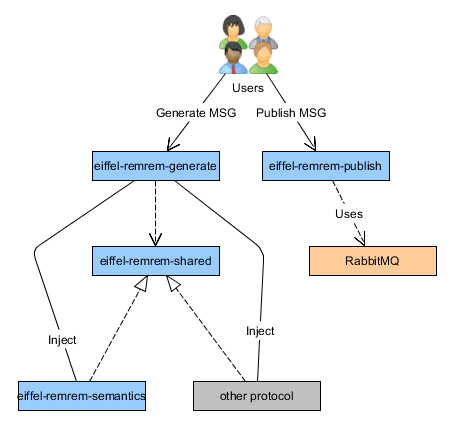
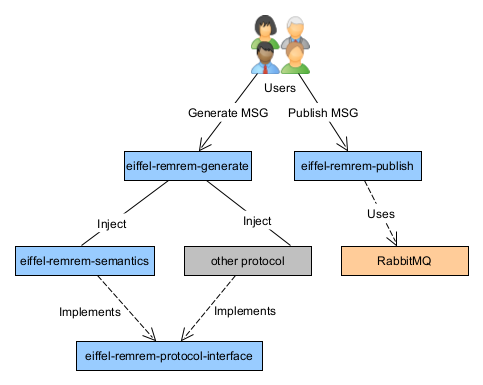
Improve REMReM introduction description (#11)

diff --git a/overview.md b/overview.md
@@ -1,26 +1,16 @@
-<!---
-   Copyright 2018 Ericsson AB.
-   For a full list of individual contributors, please see the commit history.
+# REMReM
+REMReM ( **RE**ST **M**ailbox for **Re**gistered **M**essages ) contains a set of tools to generate validated Eiffel messages and publish them on a RabbitMQ message bus. They can operate as micro services or as stand-alone CLI versions.
 
-   Licensed under the Apache License, Version 2.0 (the "License");
-   you may not use this file except in compliance with the License.
-   You may obtain a copy of the License at
+REMReM consists of two main functions:
+- REMReM Generate: for generating valid Eiffel messages and validating them against the [protocol schemas](https://github.com/eiffel-community/eiffel/tree/master/schemas).
+- REMReM Publish: for publishing Eiffel messages on an RabbitMQ with authentication. When using REMReM as a service it provides an endpoint to both generate the messages and publishing them. For information on how to use the publish service please see the [REMReM publish usage](https://github.com/eiffel-community/eiffel-remrem-publish/blob/master/wiki/markdown/usage/service.md#usage).
 
-       http://www.apache.org/licenses/LICENSE-2.0
-
-   Unless required by applicable law or agreed to in writing, software
-   distributed under the License is distributed on an "AS IS" BASIS,
-   WITHOUT WARRANTIES OR CONDITIONS OF ANY KIND, either express or implied.
-   See the License for the specific language governing permissions and
-   limitations under the License.
---->
-
-# RemRem Architecture
+## REMReM Architecture
 ![RemRem Architecture](https://github.com/eiffel-community/eiffel-remrem/raw/master/media/remrem_architecture.png "RemRem Architecture")
 
-Architecture of remrem is based on Microservice and API design principles utilizing state of the art in development.
+The architecture of REMReM is based on Microservice and API design principles utilizing state of the art in development.
 
-## Principles
+### Principles
 - Microservices driven
  - Independent deployment
  - Decoupled services
@@ -29,11 +19,10 @@ Architecture of remrem is based on Microservice and API design principles utiliz
  - Isolates failures
  - Decentralized
 
-# RemRem Components
+## RemRem Components
 - Generate (Microservice): Can be used to generate validated Eiffel messages. [Generate Github Repo](https://github.com/eiffel-community/eiffel-remrem-generate)
 - Publish (Microservice): Can be used to publish Eiffel messages. [Publish Github Repo](https://github.com/eiffel-community/eiffel-remrem-publish)
 - Semantics (Library): Injectable library used with Generate Microservice to enable generation of new Eiffel messages. [Semantics Github Repo](https://github.com/eiffel-community/eiffel-remrem-semantics)
-- Shared (Library): Interface information used in injecting message libraries. Utilized by Semantics and Eifel3Messaging innersource projects [Shared Github Repo](https://github.com/eiffel-community/eiffel-remrem-shared)
 
-# Building and releasing
-For every RemRem component it is needed to create a new release tag in the component's repository on github. Once the tag is created the build for the new release tag will be started when you visit the component's page on jitpack.io (i.e. https://jitpack.io/#eiffel-community/eiffel-remrem-generate) and published on component's page on jitpack.io or when another application is build and it is dependent of the new release tag from jitpack.io.
+## Building and releasing
+For every REMReM component it is needed to create a new release tag in the component's repository on GitHub. Once the tag is created the build for the new release tag will be started when you visit the component's page on jitpack.io (i.e. https://jitpack.io/#eiffel-community/eiffel-remrem-generate) and published on component's page on jitpack.io or when another application is build and it is dependent of the new release tag from jitpack.io.

diff --git a/README.md b/README.md
@@ -1,32 +1,16 @@
-<!---
-   Copyright 2018 Ericsson AB.
-   For a full list of individual contributors, please see the commit history.
-
-   Licensed under the Apache License, Version 2.0 (the "License");
-   you may not use this file except in compliance with the License.
-   You may obtain a copy of the License at
-
-       http://www.apache.org/licenses/LICENSE-2.0
-
-   Unless required by applicable law or agreed to in writing, software
-   distributed under the License is distributed on an "AS IS" BASIS,
-   WITHOUT WARRANTIES OR CONDITIONS OF ANY KIND, either express or implied.
-   See the License for the specific language governing permissions and
-   limitations under the License.
---->
-
-<img src="./images/logo.png" alt="Eiffel RemRem" width="350"/>
+<img src="./images/logo.png" alt="Eiffel REMReM" width="350"/>
 
 [![Sandbox badge](https://img.shields.io/badge/Stage-Sandbox-yellow)](https://github.com/eiffel-community/community/blob/master/PROJECT_LIFECYCLE.md#stage-sandbox)
 
-# Eiffel RemRem
+# Eiffel REMReM
 
-Eiffel RemRem is a project undertaken to establish a communication layer between messagebus technologies and rest of Eiffel project in order to accomplish:
+Eiffel REMReM ( **RE**ST **M**ailbox for **Re**gistered **M**essages ) is a project undertaken to establish a communication layer between messagebus technologies and rest of Eiffel project in order to accomplish:
 - Technology agnosticism
 - Separation of concerns
 - Ability to secure message bus entry/exit points
 - Ability to introduce message validation
-See [this overview](overview.md) for further information on architecture, principles, links to related components and instructions for building and releasing.
+
+See **[this overview](overview.md)** for further information on architecture, principles, links to related components and instructions for building and releasing.
 
 # About this repository
 The contents of this repository are licensed under the [Apache License 2.0](./LICENSE).
